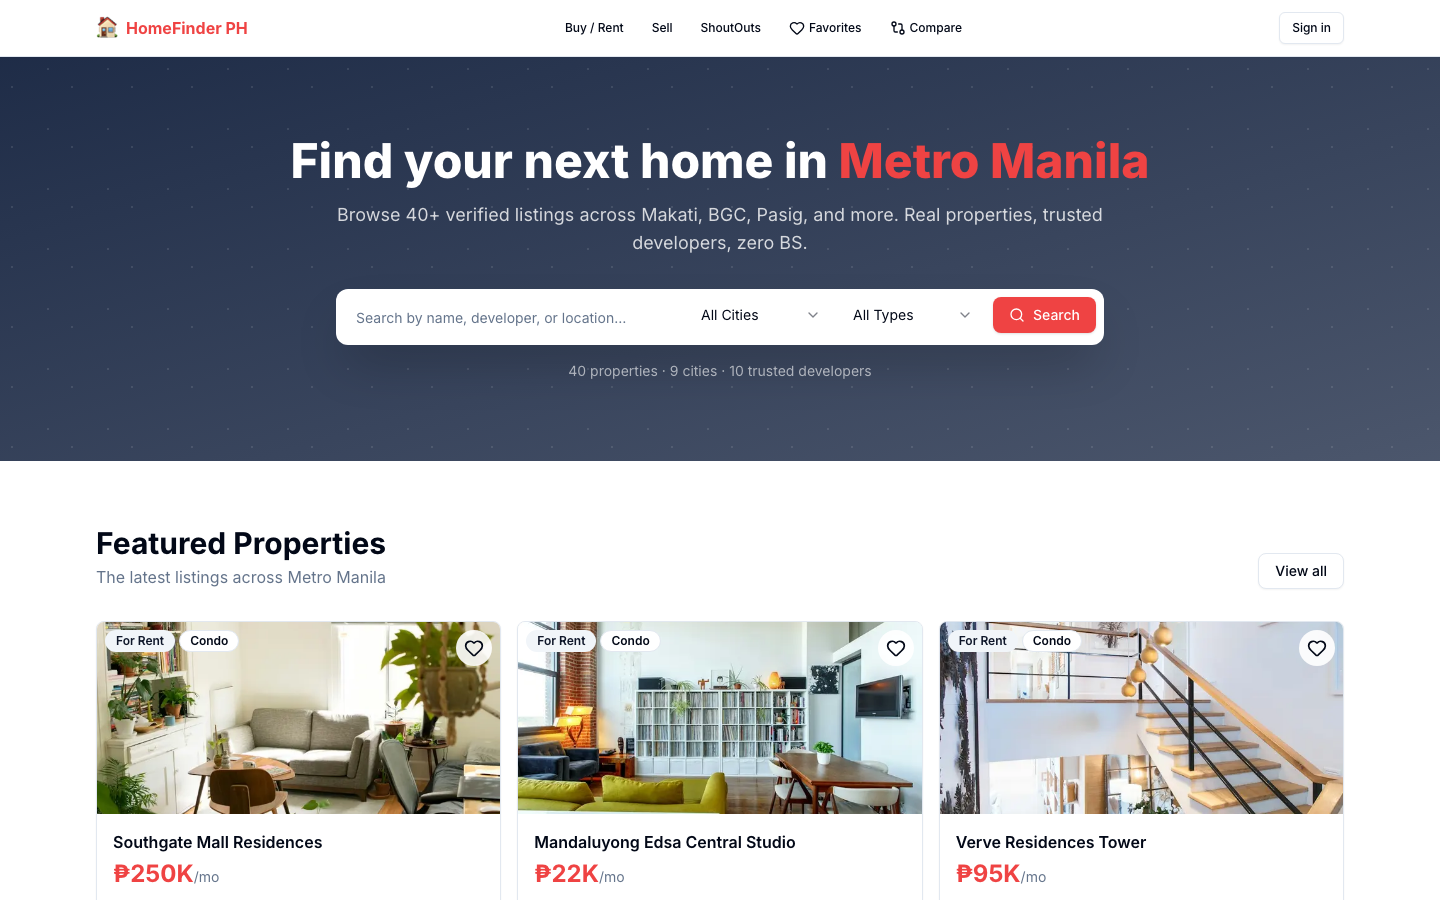
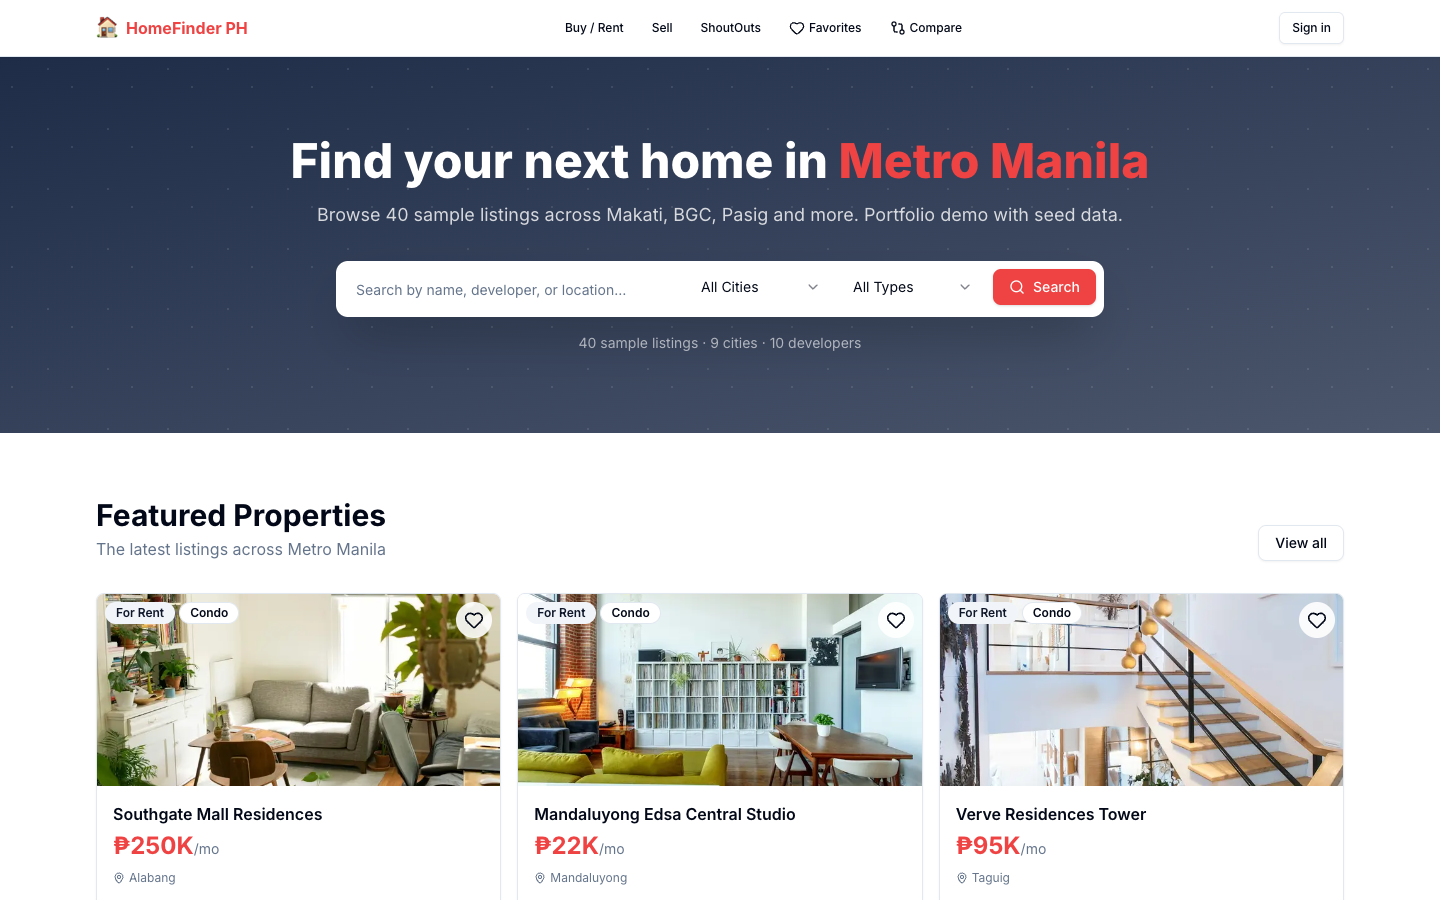
Make the home page honest about seed data; add screen-reader labels to card stats
- Hero subtitle and stats line say these are 40 sample listings in a portfolio
  demo (no "verified", "real properties", "trusted developers").
- Value props now describe what the app does: search and filters, map view,
  ShoutOuts. No verification, agent-network or developer-partnership claims.
- Site description says it's a demo with seed data; og:title/description/url.
- Property cards: bedroom/bathroom counts read as "3 bedrooms" etc. to screen
  readers; icons are aria-hidden. Visual output unchanged.
- Regenerated docs/screenshots.

Changed region(s): [[0.0625, 0.56, 0.9375, 0.9956], [0.2188, 0.2178, 0.7812, 0.4356], [0.0, 0.4667, 1.0, 0.5289]]

diff --git a/src/components/property/property-card.tsx b/src/components/property/property-card.tsx
@@ -64,24 +64,26 @@ export function PropertyCard({ property }: PropertyCardProps) {
             )}
           </p>
           <p className="mb-3 flex items-center gap-1 text-xs text-muted-foreground">
-            <MapPin className="h-3 w-3 shrink-0" />
+            <MapPin className="h-3 w-3 shrink-0" aria-hidden="true" />
             {property.city}
           </p>
           <div className="flex items-center gap-3 text-sm text-muted-foreground">
             {property.bedrooms > 0 && (
               <span className="flex items-center gap-1">
-                <BedDouble className="h-4 w-4" />
+                <BedDouble className="h-4 w-4" aria-hidden="true" />
                 {property.bedrooms}
+                <span className="sr-only">{property.bedrooms === 1 ? " bedroom" : " bedrooms"}</span>
               </span>
             )}
             {property.bathrooms > 0 && (
               <span className="flex items-center gap-1">
-                <Bath className="h-4 w-4" />
+                <Bath className="h-4 w-4" aria-hidden="true" />
                 {property.bathrooms}
+                <span className="sr-only">{property.bathrooms === 1 ? " bathroom" : " bathrooms"}</span>
               </span>
             )}
             <span className="flex items-center gap-1">
-              <Maximize2 className="h-4 w-4" />
+              <Maximize2 className="h-4 w-4" aria-hidden="true" />
               {formatArea(property.floorAreaSqm)}
             </span>
           </div>

diff --git a/src/components/home/value-props.tsx b/src/components/home/value-props.tsx
@@ -1,23 +1,21 @@
-import { ShieldCheck, Users, Megaphone } from "lucide-react";
+import { Search, Map, Megaphone } from "lucide-react";
 
 const FEATURES = [
   {
-    icon: ShieldCheck,
-    title: "Verified Listings",
+    icon: Search,
+    title: "Search and filters",
     description:
-      "Every property is reviewed for accuracy. No fake listings, no bait-and-switch. What you see is what you get.",
+      "Debounced search plus filters by city, property type, price and bedrooms.",
   },
   {
-    icon: Users,
-    title: "Trusted Agents",
-    description:
-      "Our network includes agents from the Philippines' top developers — Ayala Land, SMDC, Rockwell, and more.",
+    icon: Map,
+    title: "Map view",
+    description: "Every listing is pinned on an OpenStreetMap map, so you can browse by location.",
   },
   {
     icon: Megaphone,
-    title: "Free ShoutOuts",
-    description:
-      "Post your wish list for free. Let sellers come to you with matching properties that fit your exact criteria.",
+    title: "ShoutOuts",
+    description: "Buyers post a wish list on a community board for sellers to answer.",
   },
 ];
 

diff --git a/src/app/layout.tsx b/src/app/layout.tsx
@@ -10,7 +10,16 @@ const inter = Inter({ subsets: ["latin"] });
 export const metadata: Metadata = {
   title: "HomeFinder PH — Find Your Home in Metro Manila",
   description:
-    "Browse 40+ verified property listings across Makati, BGC, Pasig, and more. Buy, rent, or sell with HomeFinder PH.",
+    "Portfolio demo: property search for Metro Manila with filters, a map view and comparison. Seed data, not real listings.",
+  metadataBase: new URL("https://homefinder.kevinciang.com"),
+  openGraph: {
+    title: "HomeFinder PH — Find Your Home in Metro Manila",
+    description:
+      "Portfolio demo: property search for Metro Manila with filters, a map view and comparison. Seed data, not real listings.",
+    url: "https://homefinder.kevinciang.com",
+    siteName: "HomeFinder PH",
+    type: "website",
+  },
 };
 
 export default function RootLayout({

diff --git a/src/components/home/hero.tsx b/src/components/home/hero.tsx
@@ -52,8 +52,7 @@ export function Hero() {
           <span className="text-primary">Metro Manila</span>
         </h1>
         <p className="mb-8 text-lg text-white/80">
-          Browse 40+ verified listings across Makati, BGC, Pasig, and more. Real properties,
-          trusted developers, zero BS.
+          Browse 40 sample listings across Makati, BGC, Pasig and more. Portfolio demo with seed data.
         </p>
 
         {/* Search bar */}
@@ -101,7 +100,7 @@ export function Hero() {
         </div>
 
         <p className="mt-4 text-sm text-white/60">
-          40 properties · 9 cities · 10 trusted developers
+          40 sample listings · 9 cities · 10 developers
         </p>
       </div>
     </section>

diff --git a/src/components/shoutout/shoutout-card.tsx b/src/components/shoutout/shoutout-card.tsx
@@ -42,8 +42,8 @@ export function ShoutOutCard({ shoutout }: ShoutOutCardProps) {
           </span>
           {shoutout.bedroomsMin > 0 && (
             <span className="flex items-center gap-1 text-muted-foreground">
-              <BedDouble className="h-4 w-4 text-primary" />
-              {shoutout.bedroomsMin}+ BR
+              <BedDouble className="h-4 w-4 text-primary" aria-hidden="true" />
+              {shoutout.bedroomsMin}+ BR<span className="sr-only"> (bedrooms)</span>
             </span>
           )}
         </div>
